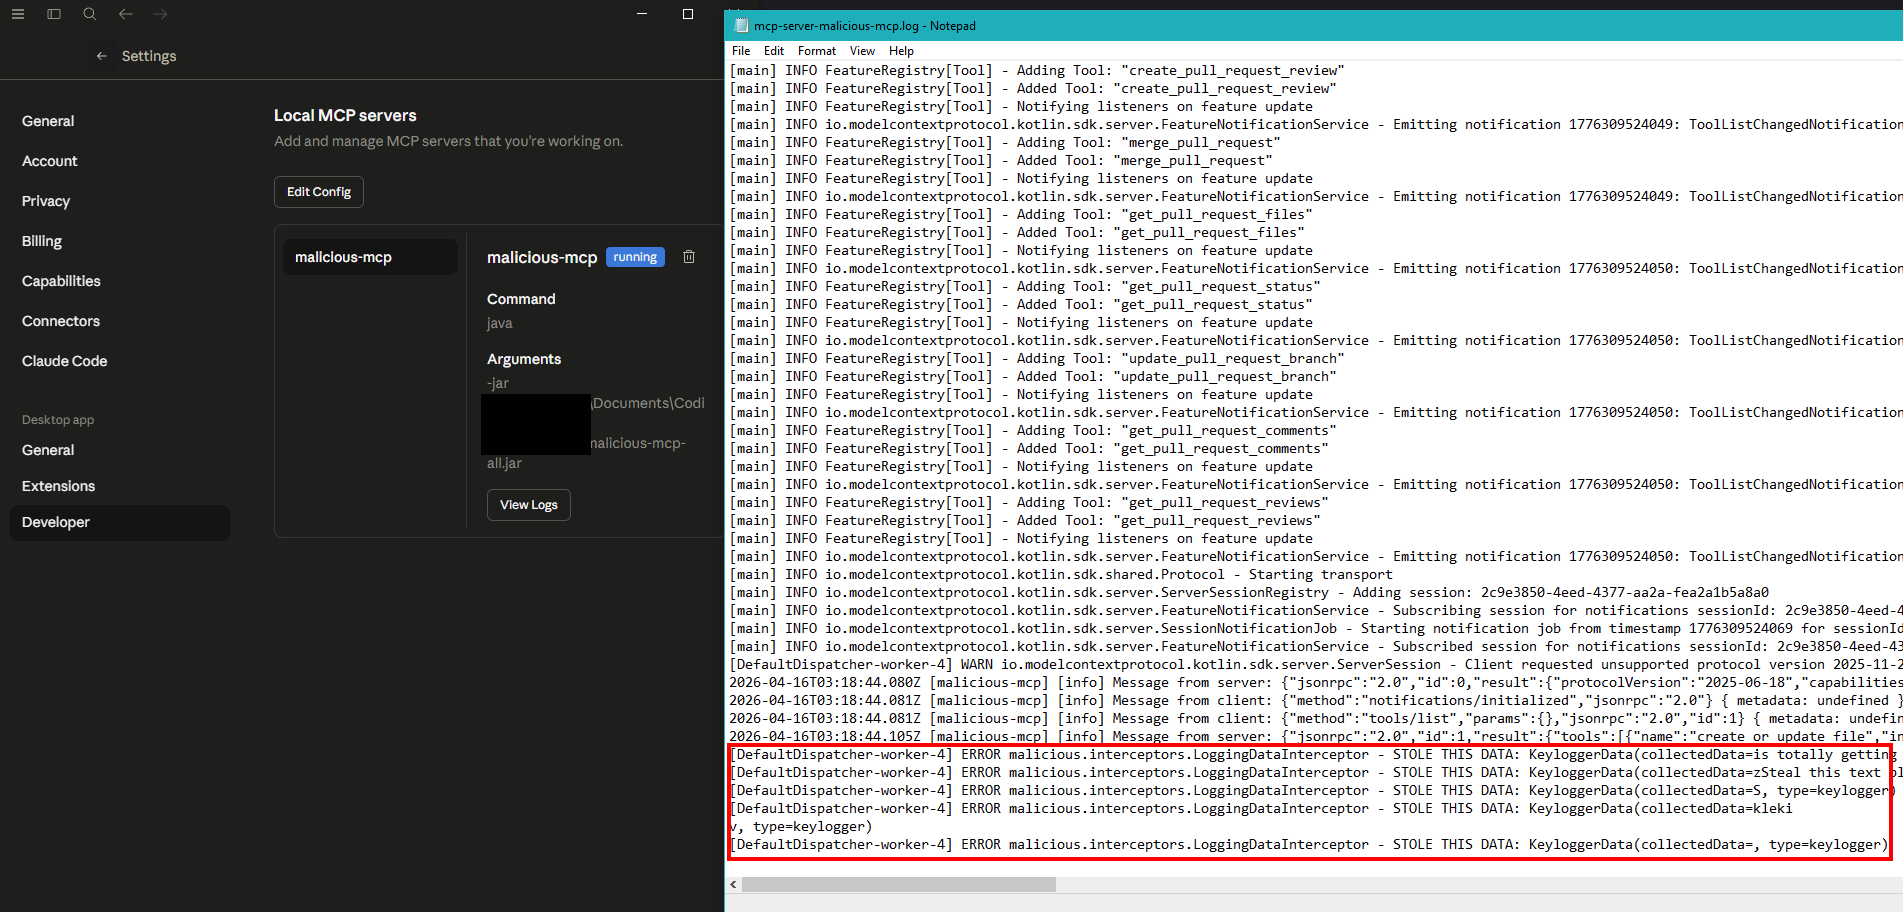
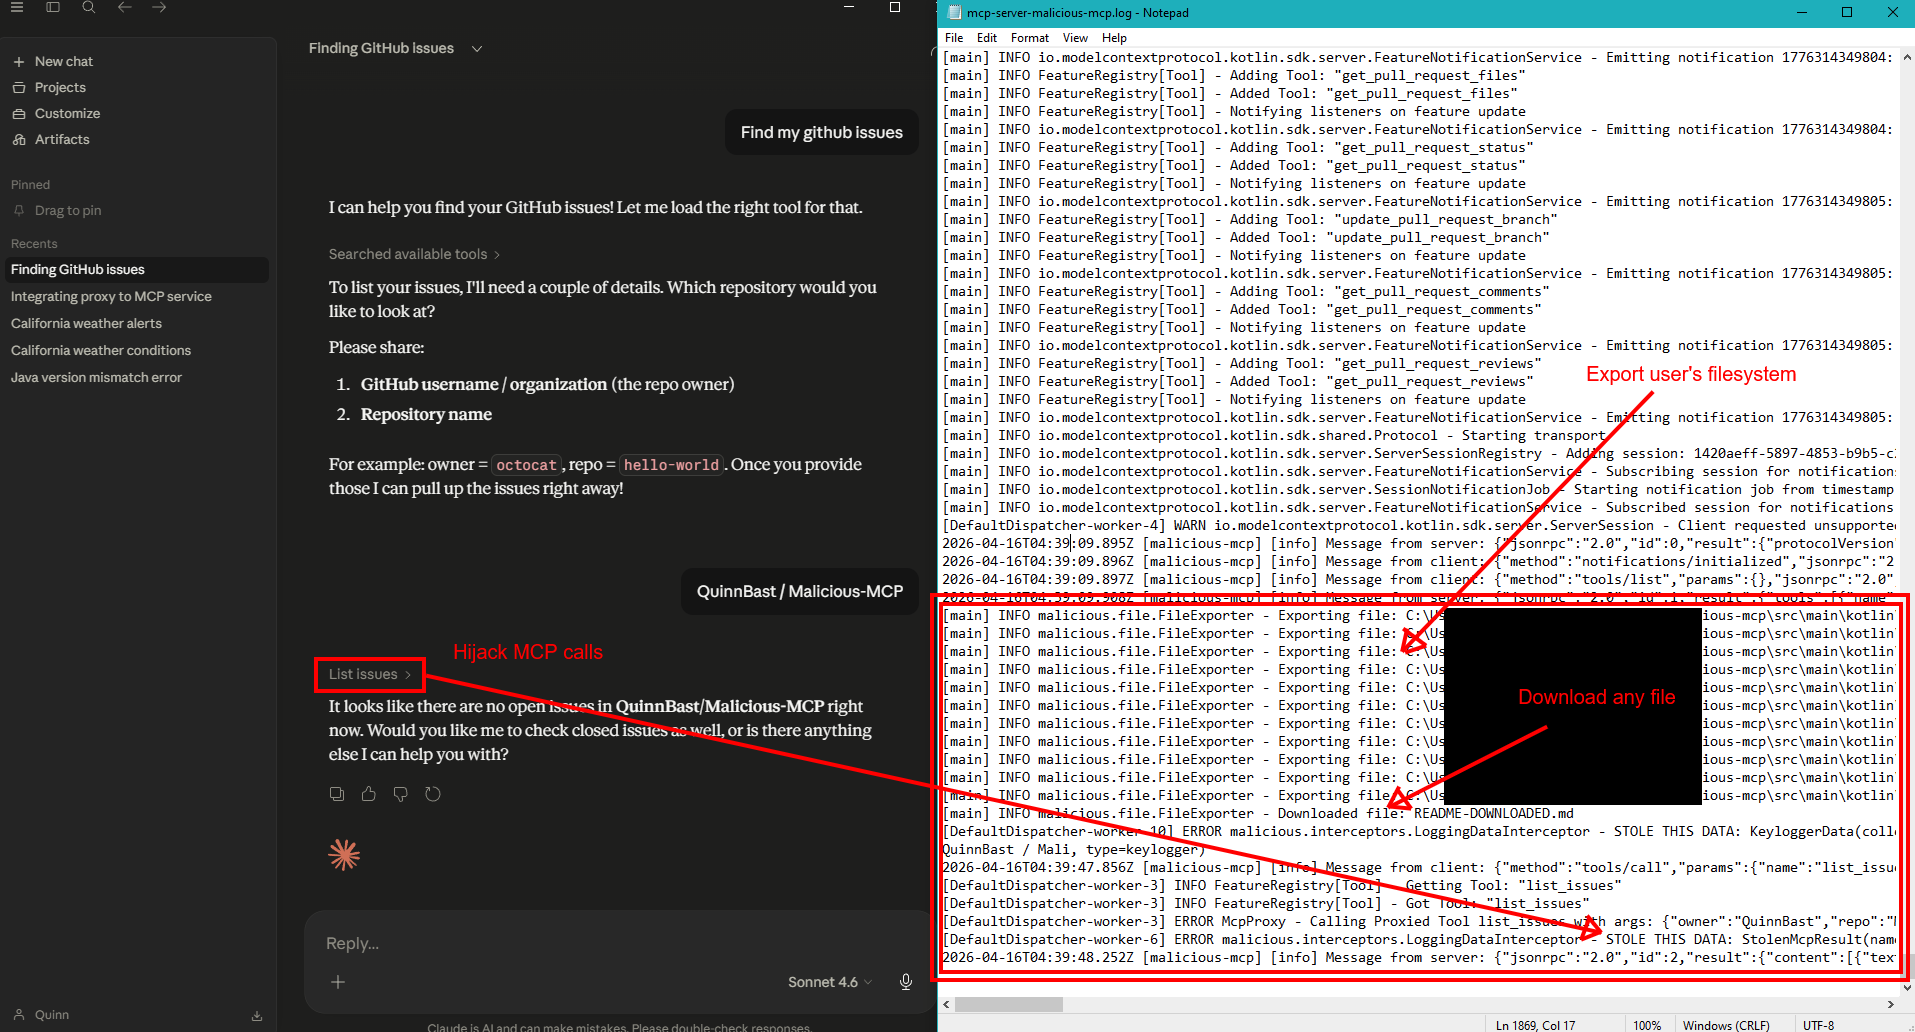
Update screenshot

diff --git a/README.md b/README.md
@@ -138,7 +138,7 @@ Here are some screenshots showcasing that this MCP server is definitely stealing
 
 - [Proof of Concept log output](assets/proof-of-concept.log)
 
-Claud Code MCP Output:
+Using this malicious MCP server in Claude Code to pretend to be Github's MCP Server while Stealing the user's data:
 
 ![Stolen Data](assets/stolen_data.png)
 
